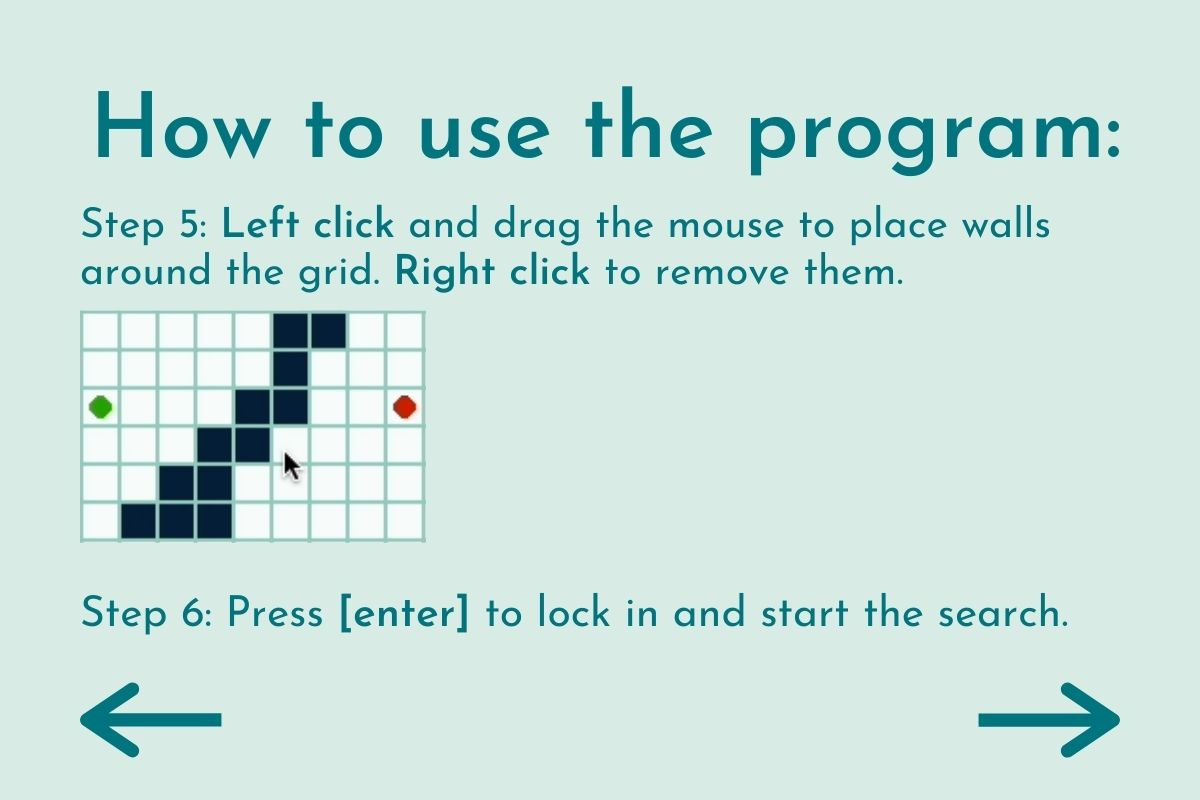
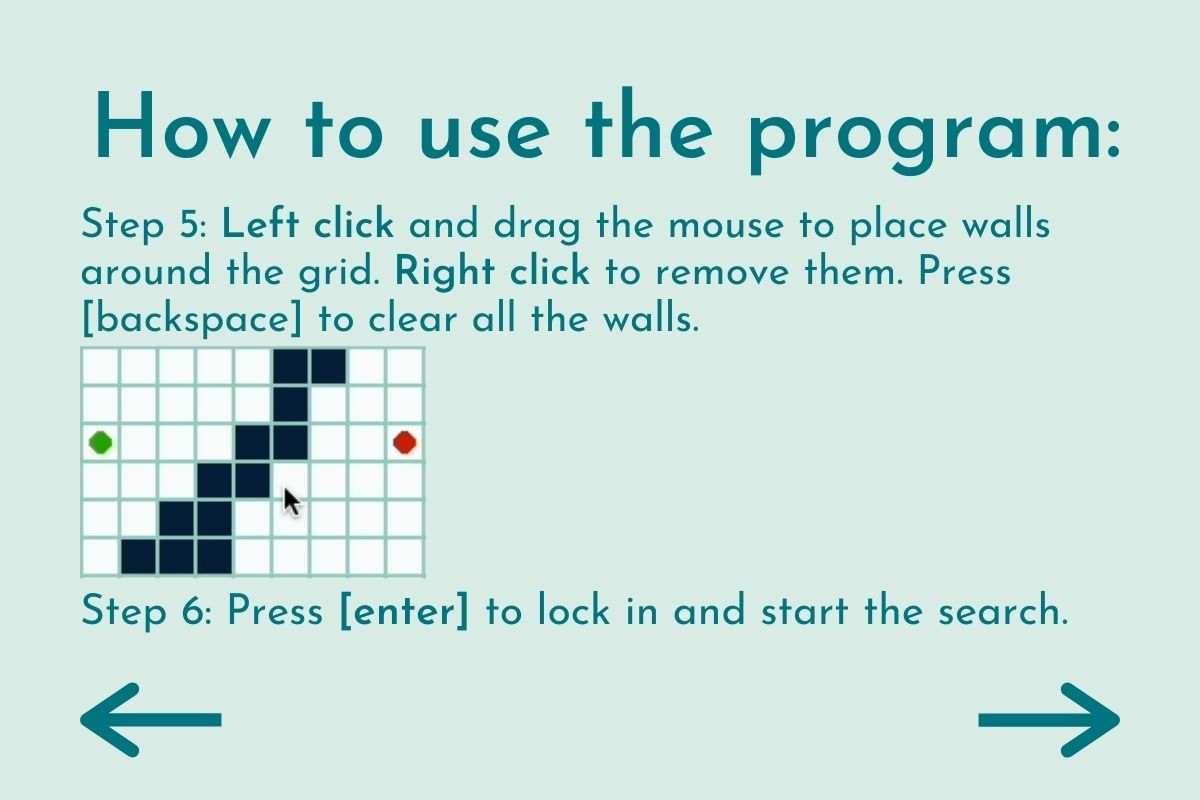
added clear wall option

diff --git a/main.py b/main.py
@@ -223,7 +223,6 @@ displayPages()
 while True:
 
     initGrid()
-    
 
     start = grid[5][18]
     end = grid[54][18]
@@ -292,6 +291,8 @@ while True:
                         reset_game = True
                     if event.key == pygame.K_w:
                         generateRandomWalls()
+                    if event.key == pygame.K_BACKSPACE:
+                        clearWall()
 
         if start_search == True:
             last_node = aStarSearch()
